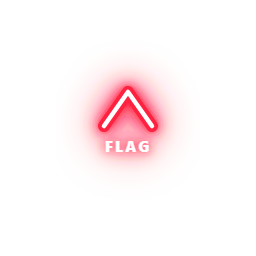
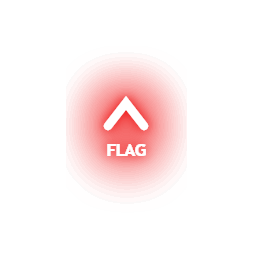
feat(client): reverse-engineer leader arrow and align CTF tracking arrows (#100)
* feat(client): reverse-engineer leader arrow and align CTF tracking arrows

* refactor(client): replace pixel-grid svg paths with smooth vector primitives and update skill rules

Changed region(s): [[0.2812, 0.2812, 0.7188, 0.75]]

diff --git a/Game.Engine/wwwroot/src/styles/components/_hud-indicators.scss b/Game.Engine/wwwroot/src/styles/components/_hud-indicators.scss
@@ -49,7 +49,7 @@
   z-index: $z-index-canvas;
 
   &--leader {
-    filter: hue-rotate(235deg);
+    // Displays authentic retro-neon red glow directly from sprite asset
   }
 
   &--ctf-blue {

diff --git a/.agents/skills/visual-reverse-engineering/SKILL.md b/.agents/skills/visual-reverse-engineering/SKILL.md
@@ -80,9 +80,12 @@ python .agents/skills/visual-reverse-engineering/scripts/match_font.py \
 
 ### Phase 3: Parametric SVG Template Drafting
 Create a parametric SVG template `<name>_template.svg` with placeholder variables `{param_name}` for uncalibrated dimensions.
-- **Apex & Join Invariant**: If the target has sharp corners, specify `stroke-linejoin="miter"` or explicit polygonal vertices. Never use rounded joins where the probe or edge diff shows sharp bevels.
+- **Strict Vector Primitives Mandate (NEVER Use Pixel Grids)**:
+  - Vector masters **MUST ALWAYS** be authored using clean, continuous resolution-independent geometric primitives: `<path d="M... L... A...">`, `<circle>`, `<polygon>`, and `<text>`.
+  - **PROHIBITED ANTI-PATTERN**: Never decompose raster scanlines or pixel masks into discrete grids of $1\times 1$ or $W\times H$ pixel rectangles (`M x y h w v h h -w Z`). While pixel run-length rects match low-res raster grids at $1\times$, they become jagged, aliased, pixelated staircases at high DPI or zoom and defeat the entire purpose of vector graphics.
+- **Apex & Join Invariant**: If the target has sharp corners, specify `stroke-linejoin="miter"` with `stroke-linecap="round"` or explicit polygonal vertices. Never use rounded joins where the probe or edge diff shows sharp bevels.
 - **Glow Architecture**: Use multi-pass SVG filters (`feGaussianBlur` + `feMerge`) matching the sigmas extracted in Phase 1.
-- **Typography**: Embed the font family and styling parameters discovered in Phase 2.
+- **Typography**: Embed the font family and styling parameters discovered in Phase 2 using native `<text>` elements.
 
 ### Phase 4: Component-Separated Loss Optimization
 Tune continuous geometric and filter parameters against the reference image using headless Chromium rendering:
@@ -173,5 +176,6 @@ render_svg.py [-h] -i INPUT_SVG -o OUTPUT_PNG [-w WIDTH] [-H HEIGHT] [--scale SC
 
 1. **Zero-Alpha Normalization**: Fully transparent pixels (`A == 0`) often retain arbitrary background colors (e.g. transparent white `[255, 255, 255, 0]` vs transparent black `[0, 0, 0, 0]`). Comparison tools MUST zero-out RGB when `A == 0` before calculating difference metrics, or invisible background variations will distort global RMSE.
 2. **Chromium SetContent Wait Condition**: Always use `wait_until="domcontentloaded"` in Playwright scripts for local SVG rendering. `wait_until="networkidle"` introduces an artificial 500ms sleep per iteration, slowing optimization loops by 100x.
-3. **Miter vs Round Joins**: Chevron and arrowhead apexes in arcade games typically use mitered joins (`stroke-linejoin="miter"` or explicit polygonal points). Avoid `stroke-linejoin="round"` unless specifically identified by `probe_graphic`.
-4. **Diffuse Halo Masking**: Never optimize raw RMSE alone on glowing assets; diffuse blur will dominate the loss function, allowing sharp corner or letterform shape errors to pass undetected. Always use `multi` metric mode.
+3. **Continuous Vectors vs Pixel-Grid Artifacts**: Never create SVG paths by stitching $1\times 1$ pixel rectangles together from bitmap masks. Vector graphics must remain smooth, clean, and scalable at all viewport zoom levels. Use mathematical lines, arcs, polygon hulls, and `<text>` tags.
+4. **Miter vs Round Joins**: Chevron and arrowhead apexes in arcade games typically use mitered joins (`stroke-linejoin="miter"` or explicit polygonal points). Avoid `stroke-linejoin="round"` unless specifically identified by `probe_graphic`.
+5. **Diffuse Halo Masking**: Never optimize raw RMSE alone on glowing assets; diffuse blur will dominate the loss function, allowing sharp corner or letterform shape errors to pass undetected. Always use `multi` metric mode.
